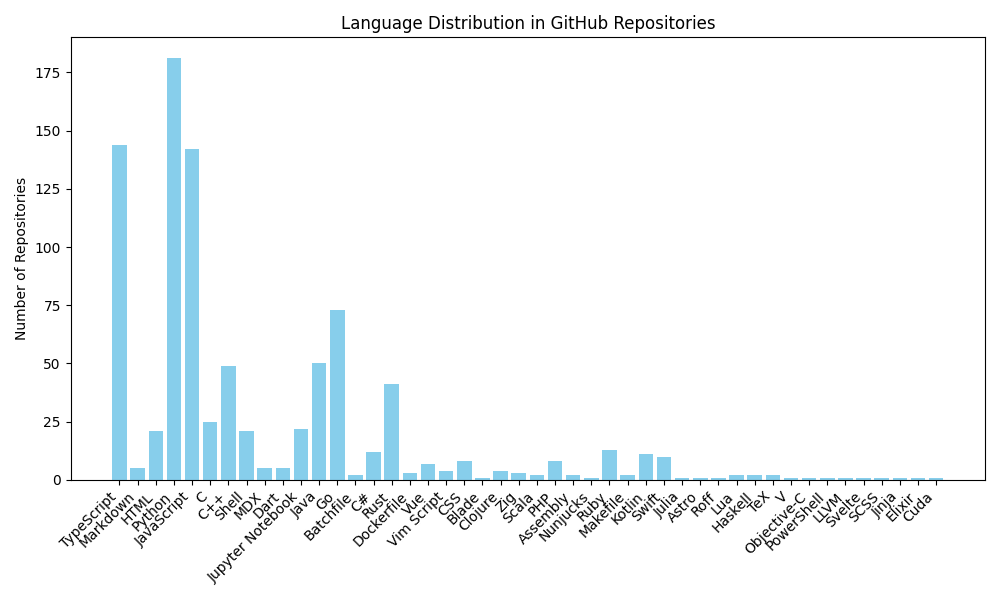
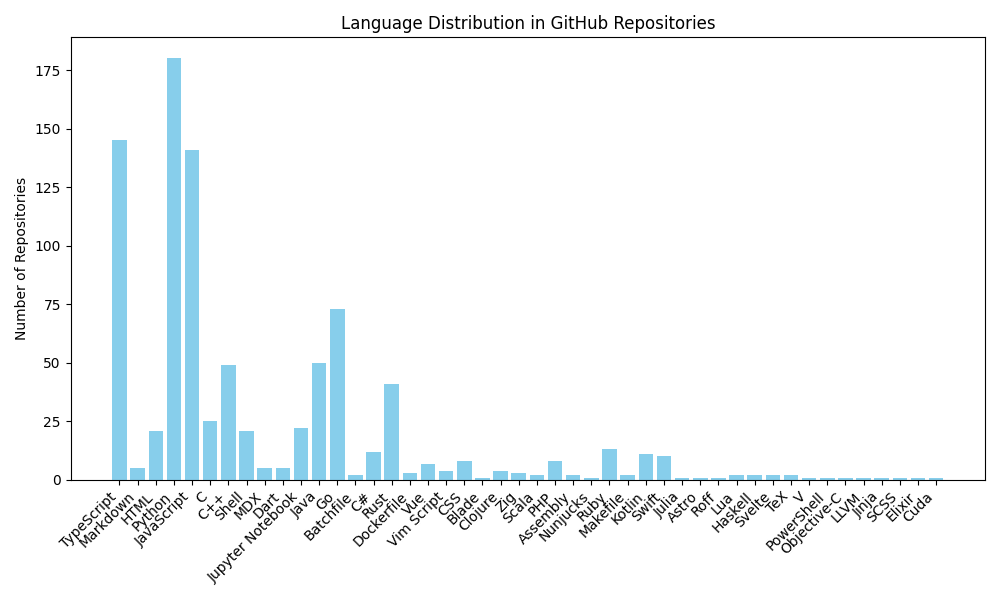
Update language distribution chart

diff --git a/README.md b/README.md
@@ -5,7 +5,7 @@
 Total repositories processed: 895
 
 Language distribution:
-TypeScript: 144, Markdown: 5, HTML: 21, Python: 181, JavaScript: 142, C: 25, C++: 49, Shell: 21, MDX: 5, Dart: 5, Jupyter Notebook: 22, Java: 50, Go: 73, Batchfile: 2, C#: 12, Rust: 41, Dockerfile: 3, Vue: 7, Vim Script: 4, CSS: 8, Blade: 1, Clojure: 4, Zig: 3, Scala: 2, PHP: 8, Assembly: 2, Nunjucks: 1, Ruby: 13, Makefile: 2, Kotlin: 11, Swift: 10, Julia: 1, Astro: 1, Roff: 1, Lua: 2, Haskell: 2, TeX: 2, V: 1, Objective-C: 1, PowerShell: 1, LLVM: 1, Svelte: 1, SCSS: 1, Jinja: 1, Elixir: 1, Cuda: 1
+TypeScript: 145, Markdown: 5, HTML: 21, Python: 180, JavaScript: 141, C: 25, C++: 49, Shell: 21, MDX: 5, Dart: 5, Jupyter Notebook: 22, Java: 50, Go: 73, Batchfile: 2, C#: 12, Rust: 41, Dockerfile: 3, Vue: 7, Vim Script: 4, CSS: 8, Blade: 1, Clojure: 4, Zig: 3, Scala: 2, PHP: 8, Assembly: 2, Nunjucks: 1, Ruby: 13, Makefile: 2, Kotlin: 11, Swift: 10, Julia: 1, Astro: 1, Roff: 1, Lua: 2, Haskell: 2, Svelte: 2, TeX: 2, V: 1, PowerShell: 1, Objective-C: 1, LLVM: 1, Jinja: 1, SCSS: 1, Elixir: 1, Cuda: 1
 
 
-_Last updated: 2025-04-27 01:14:11_
+_Last updated: 2025-05-04 01:17:30_
